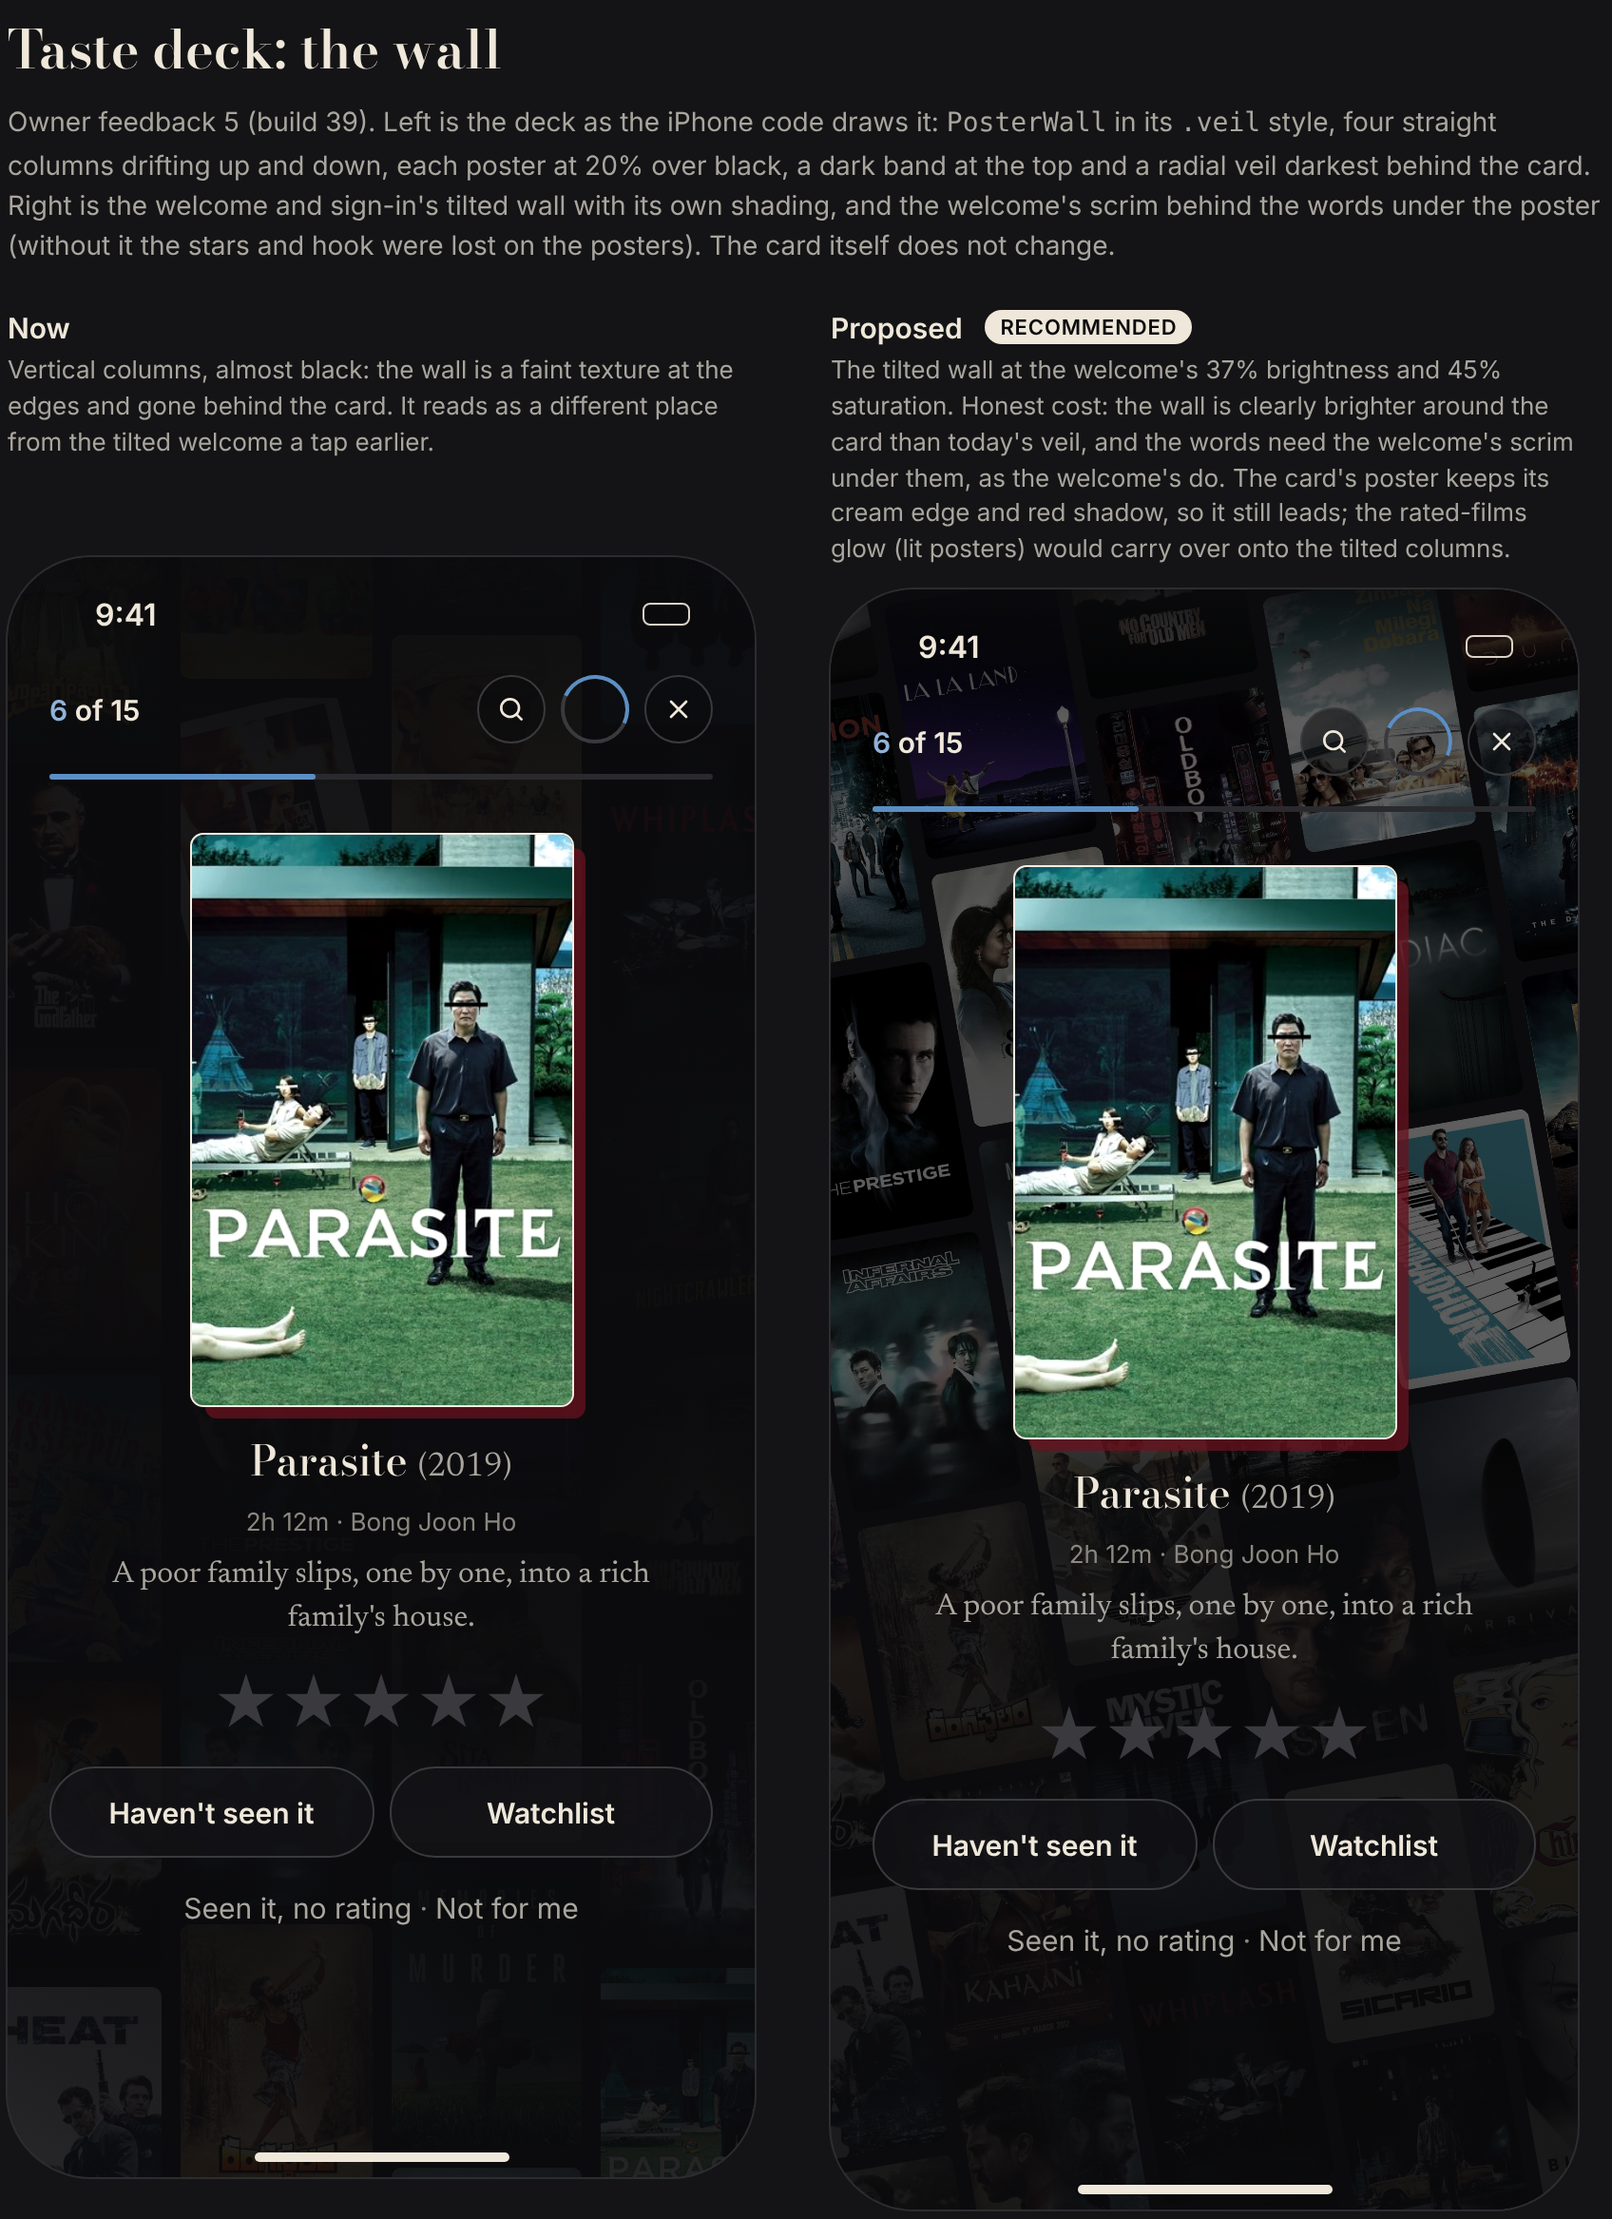
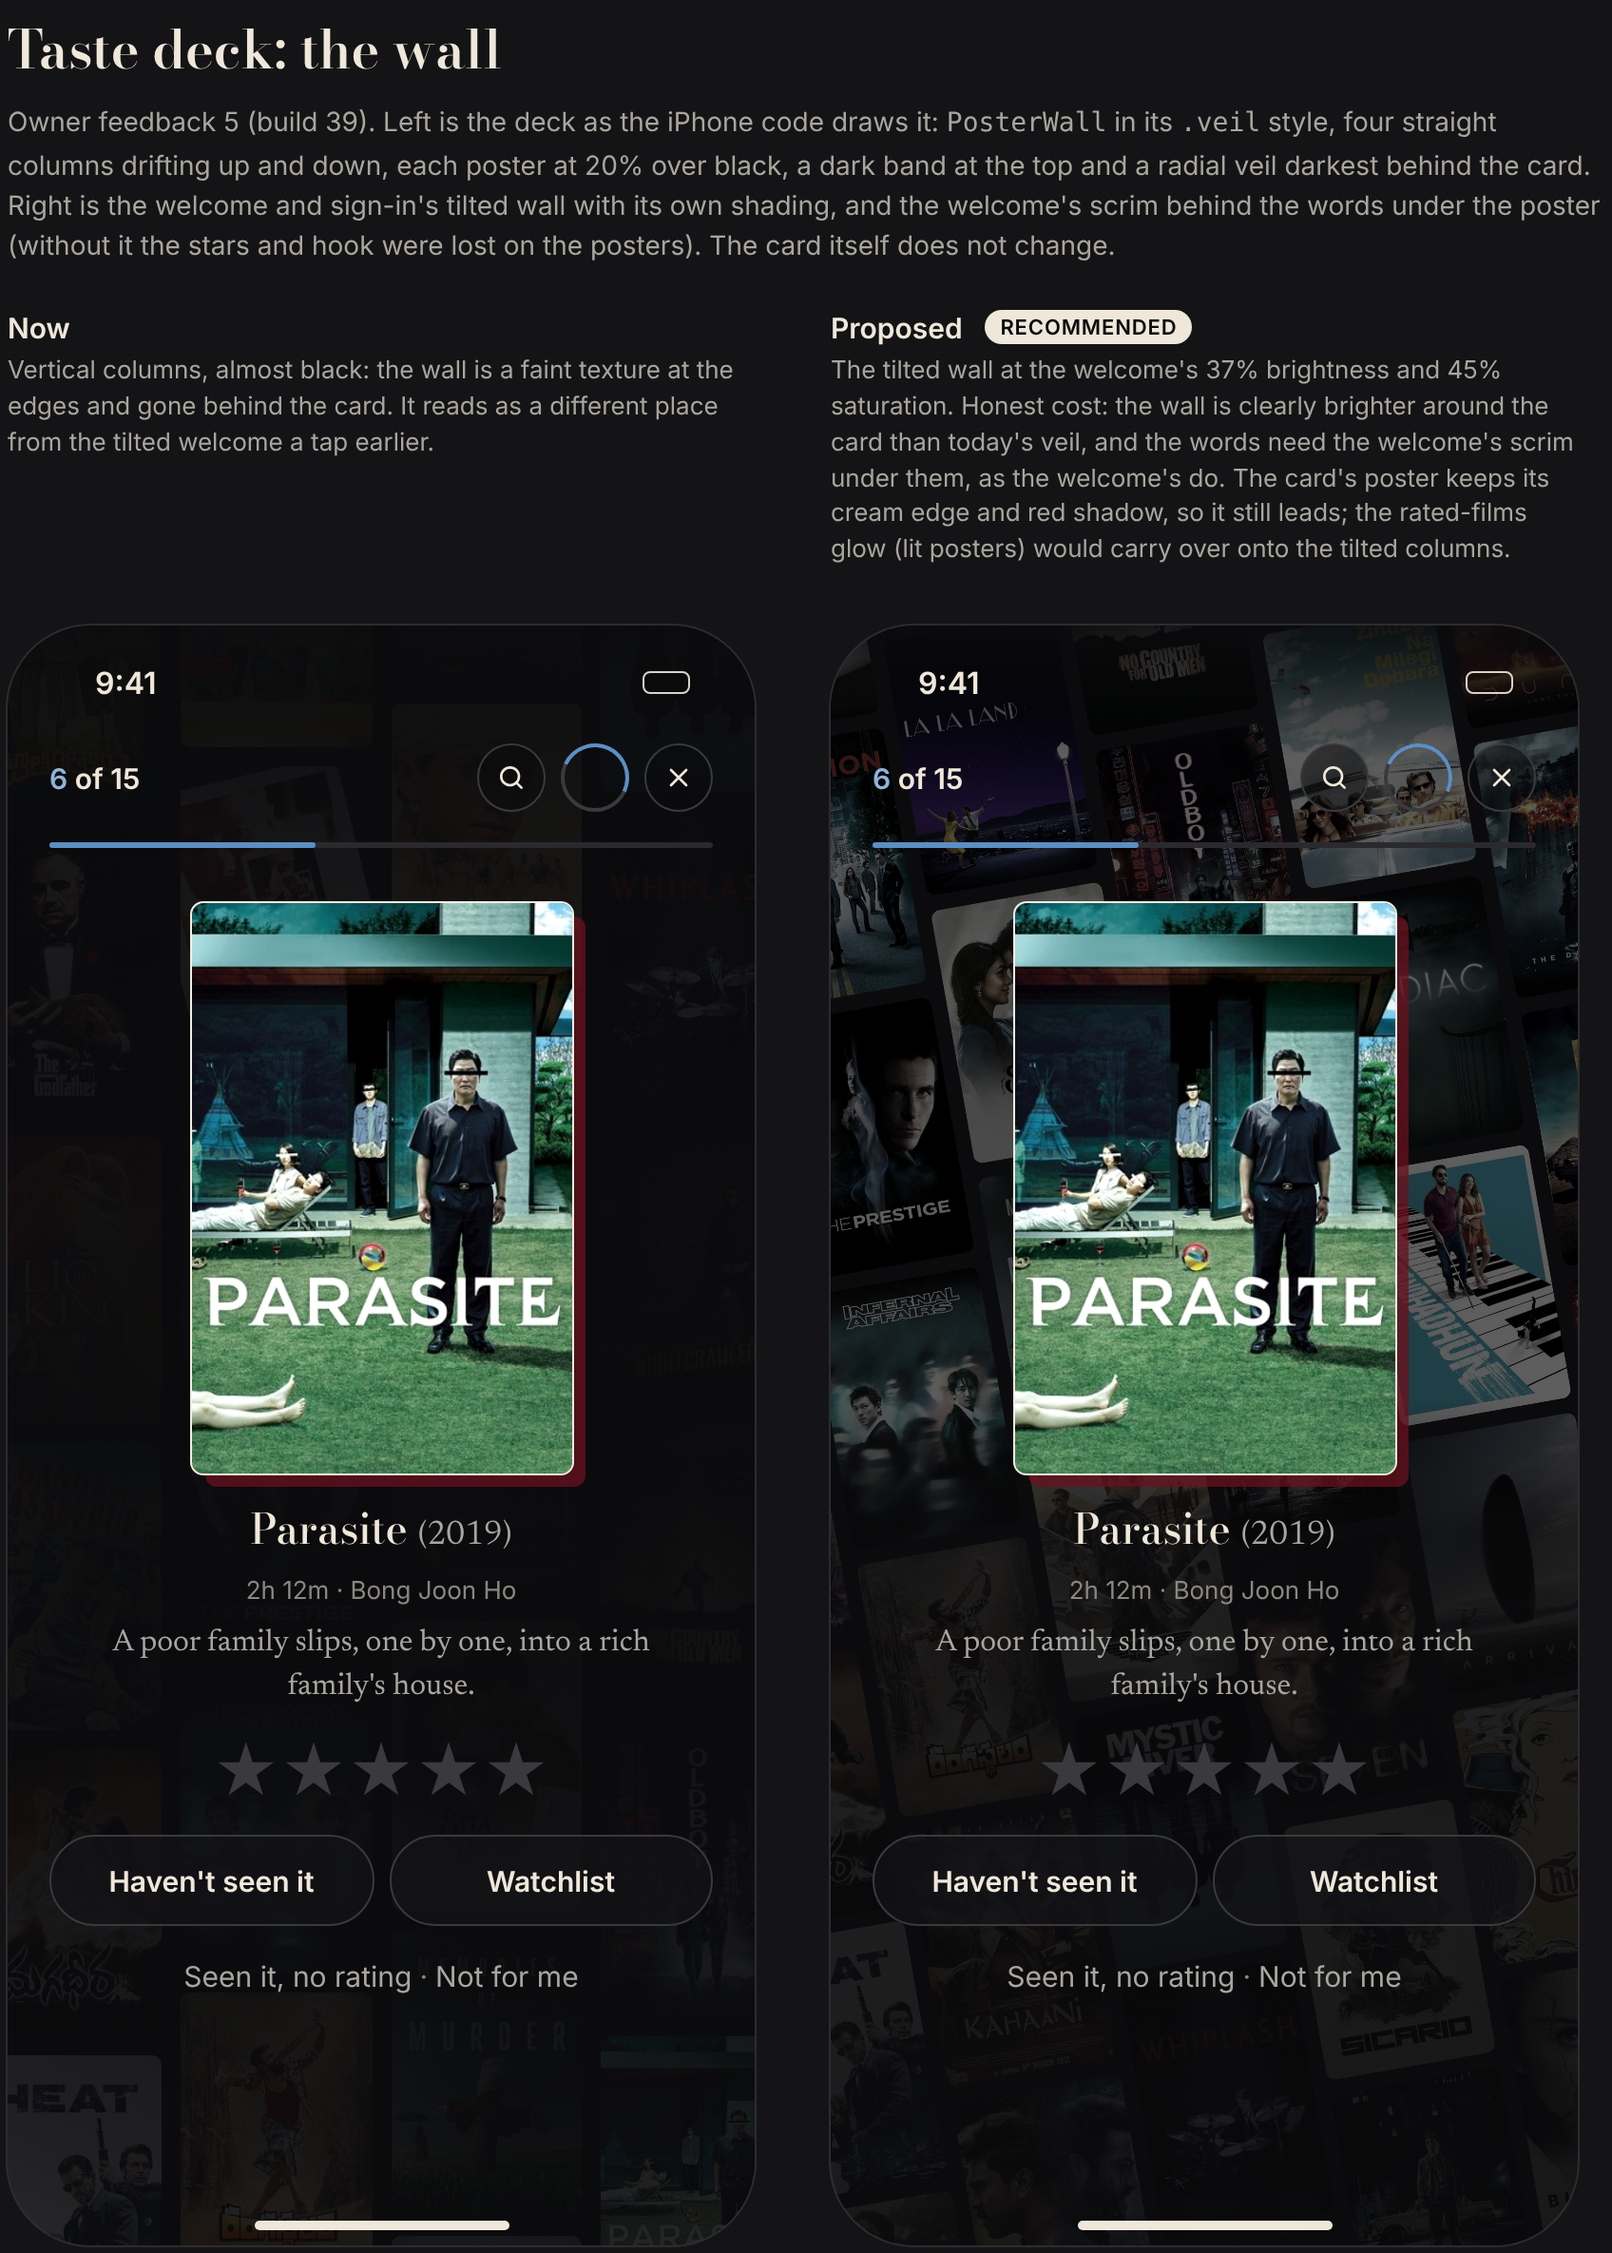
Build 39 mocks: updates
Claude-Session: https://claude.ai/code/session_013WRDCFXH8nihP92apJAVW7

diff --git a/mockups/journeys/b93-walls-reveal.html b/mockups/journeys/b93-walls-reveal.html
@@ -1,0 +1,57 @@
+<!doctype html><html lang="en"><head><meta charset="utf-8"><meta name="viewport" content="width=device-width,initial-scale=1">
+<title>b93 walls: reveal</title>
+<link href="https://fonts.googleapis.com/css2?family=Bodoni+Moda:opsz,wght@6..96,400..700&family=Inter:wght@400;500;600;700&family=Newsreader:opsz,wght@6..72,400;6..72,500&display=swap" rel="stylesheet">
+<link rel="stylesheet" href="b93-walls.css">
+<style>
+.tc{position:absolute;left:16px;right:16px;top:250px;display:flex;flex-direction:column;align-items:center;text-align:center}
+.eye{font:600 11px var(--ui);letter-spacing:.16em;text-transform:uppercase;color:var(--muted)}
+.nm{font:500 44px/1.15 var(--serif);margin:4px 0 0}
+.stk{font:400 17px var(--read);color:var(--muted);margin-top:8px}
+.tc .oxrule,.tc .tick{margin-top:12px}
+.zoom{position:absolute;left:50%;top:418px;transform:translateX(-50%);display:flex;align-items:center;gap:10px;font:500 12px var(--ui);color:var(--muted)}
+.zoom b{display:block;width:96px;height:12px;border-radius:3px}
+.later{position:absolute;left:16px;right:16px;top:480px;bottom:40px;border:1px dashed rgba(169,166,158,.35);border-radius:12px;display:grid;place-items:center;font:400 13px/1.5 var(--ui);color:var(--faint);text-align:center;padding:0 40px}
+.menu{position:absolute;right:16px;top:58px}
+</style></head><body>
+<div id="board">
+  <h1 class="board-h">The reveal: wall and tick</h1>
+  <p class="board-p">Owner feedback 7 (build 39), the wall and the tick only; the crowded check and proof are a separate layout mock, so that part is left as a placeholder here. Left is the reveal page as the iPhone code draws it: <code>PosterWall(style: .welcome)</code>, straight columns, and under the name <code>Theme.shadow</code>, a 40 &times; 2 oxblood rule. Right: the tilted wall the name beat already plays over (<code>RevealNameWall</code>), so the page no longer cuts to a different wall, with the welcome's scrim behind the words, and the brand <code>AccentTick</code> (red #C24C56 then blue #5A86BD, 24 &times; 3) used on the welcome, every drawer title and the name beat itself.</p>
+  <div class="row">
+    <div>
+      <div class="cap">Now<small>The name beat ends on the tilted wall with the red and blue tick; the page that follows switches to straight, warmer columns and a dark oxblood rule, which reads as brown on black.</small></div>
+      <div class="ph">
+        <div class="vwall welcome" data-start="22"></div><div class="split"></div><div class="grain"></div><div class="fadeW"></div>
+        <div class="fg" id="fgA"></div>
+      </div>
+    </div>
+    <div>
+      <div class="cap">Proposed <span class="rec">Recommended</span><small>The same tilted wall and shading as the name beat, welcome and sign-in, so beat 2 to the page is one continuous scene; the house tick in the app's red and blue, the same 24 &times; 3 as the beat before it.</small></div>
+      <div class="ph">
+        <div class="twrap"><div class="plane" data-start="22"></div></div><div class="strip"></div><div class="scrim"></div>
+        <div class="fg" id="fgB"></div>
+      </div>
+    </div>
+  </div>
+</div>
+<template id="fg">
+  <div class="sb"><span>9:41</span><i></i></div>
+  <div class="circ menu"><svg viewBox="0 0 24 24"><circle cx="5" cy="12" r="1"/><circle cx="12" cy="12" r="1"/><circle cx="19" cy="12" r="1"/></svg></div>
+  <div class="tc" data-scrim>
+    <div class="eye">You're</div>
+    <h2 class="nm">Overthinker</h2>
+    <div class="stk">with a Nihilist streak</div>
+    <span class="MARK"></span>
+  </div>
+  <div class="later">Because you loved, Does this feel right?, the picks and the save: unchanged here (a separate mock covers their layout).</div>
+  <div class="home"></div>
+</template>
+<script>
+const t = document.getElementById('fg');
+for (const [id, mark] of [['fgA', 'oxrule'], ['fgB', 'tick']]) {
+  const n = t.content.cloneNode(true);
+  n.querySelector('.MARK').className = mark;
+  document.getElementById(id).appendChild(n);
+}
+</script>
+<script src="b93-walls.js"></script>
+</body></html>

diff --git a/mockups/journeys/b93-walls.css b/mockups/journeys/b93-walls.css
@@ -12,7 +12,7 @@ body{margin:0;background:#141416;color:var(--ink);font-family:var(--ui);padding:
 .board-p{font:400 14px/1.5 var(--ui);color:var(--muted);margin:0 0 24px;max-width:840px}
 .row{display:flex;gap:40px;align-items:flex-start}
 .cap{font:600 15px var(--ui);margin:0 0 4px;width:393px}
-.cap small{display:block;font-weight:400;color:var(--muted);font-size:13px;line-height:1.45;margin:3px 0 12px;min-height:96px}
+.cap small{display:block;font-weight:400;color:var(--muted);font-size:13px;line-height:1.45;margin:3px 0 12px;min-height:132px}
 .rec{display:inline-block;margin-left:8px;padding:2px 8px;border-radius:999px;background:var(--ink);color:var(--bg);font:600 11px var(--ui);letter-spacing:.04em;text-transform:uppercase;vertical-align:2px}
 
 /* ---------- the phone, 393 x 852 ---------- */
